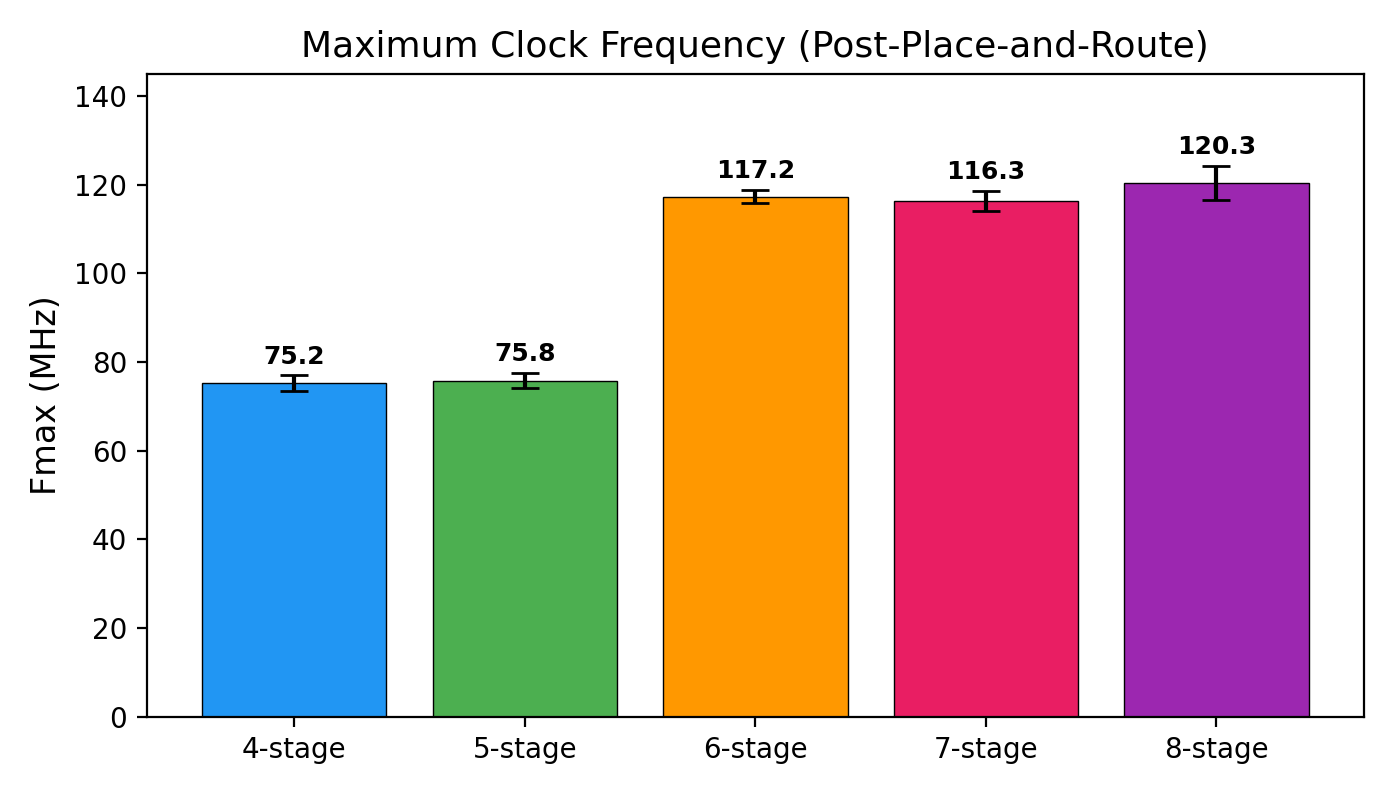
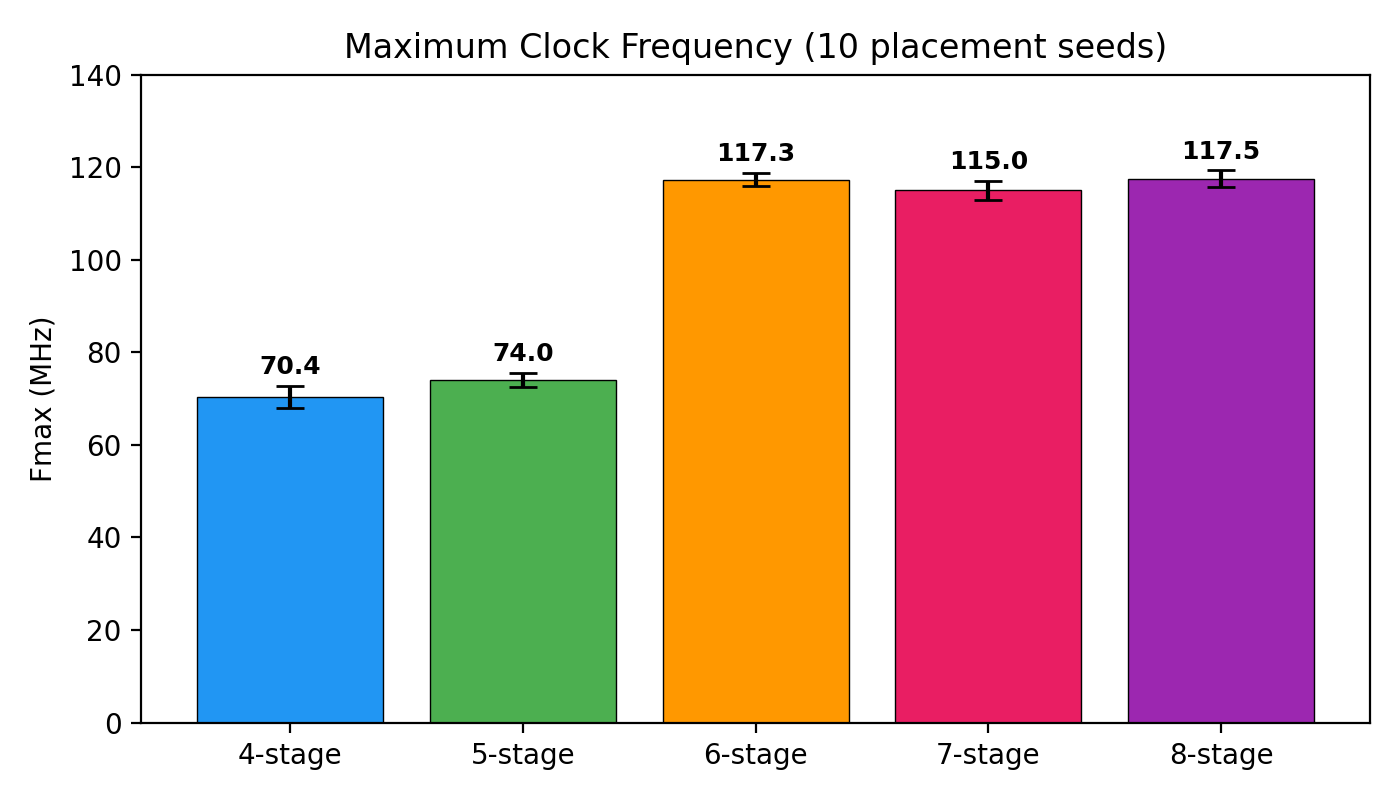
Integrate 10-seed synthesis data throughout paper
- Synthesis table: updated to 10-seed means, stds, 95% CIs (50 runs)
- Statistical analysis: p-values, Cohen's d, within-tier comparisons
- All frequency references updated (70/74/117/115/118 MHz)
- Throughput recalculated with 10-seed Fmax (6-stage: 64.1 MIPS)
- Fmax improvement now 67% (was 56% with 3-seed optimistic data)
- Figure captions updated to "10 placement seeds"
- Multi-seed methodology section updated
- Limitations: seeds caveat replaced with 10-seed confidence statement
- 3 plots regenerated with 10-seed error bars
- Conclusion updated with p-value and effect size

diff --git a/paper/main.tex b/paper/main.tex
@@ -26,7 +26,7 @@ Email: [email redacted]}
 \maketitle
 
 \begin{abstract}
-Pipeline depth is a fundamental design parameter for FPGA-based processors, yet its interaction with branch prediction effectiveness has not been quantified under controlled conditions on LUT-based fabrics. This paper presents five RV32IM pipeline variants---4, 5, 6, 7, and 8 stages---on Xilinx Artix-7 in which all non-pipeline microarchitectural variables are held constant from shared RTL. Post-place-and-route synthesis with three placement seeds per variant provides frequency and area measurements with error bars. Seven benchmark workloads---including official EEMBC CoreMark and four Embench-IoT benchmarks---are evaluated across all five depths using cycle-accurate simulation with hardware performance counters, producing 35 validated CPI and misprediction data points. All five variants produce identical instruction counts on every benchmark, confirming functional correctness. The 6-stage design achieves the highest throughput (64.1\,MIPS on CoreMark) and a CoreMark/MHz score of 1.88, while the 4-stage achieves the highest per-cycle efficiency at 2.23\,CoreMark/MHz.
+Pipeline depth is a fundamental design parameter for FPGA-based processors, yet its interaction with branch prediction effectiveness has not been quantified under controlled conditions on LUT-based fabrics. This paper presents five RV32IM pipeline variants---4, 5, 6, 7, and 8 stages---on Xilinx Artix-7 in which all non-pipeline microarchitectural variables are held constant from shared RTL. Post-place-and-route synthesis with ten placement seeds per variant (50 runs total) provides frequency and area measurements with 95\% confidence intervals. Seven benchmark workloads---including official EEMBC CoreMark and four Embench-IoT benchmarks---are evaluated across all five depths using cycle-accurate simulation with hardware performance counters, producing 35 validated CPI and misprediction data points. All five variants produce identical instruction counts on every benchmark, confirming functional correctness. The 6-stage design achieves the highest throughput (64.1\,MIPS on CoreMark) and a CoreMark/MHz score of 1.88, while the 4-stage achieves the highest per-cycle efficiency at 2.23\,CoreMark/MHz.
 \end{abstract}
 
 \begin{IEEEkeywords}
@@ -43,7 +43,7 @@ On ASIC processes, deeper pipelines shorten the critical path delay at each stag
 
 FPGAs present a different set of constraints. Logic is implemented in look-up tables (LUTs) rather than custom gates, routing delay often dominates cell delay, and hard blocks such as DSP48E1 slices impose fixed latencies \cite{xilinx_7series}. These properties shift the frequency-versus-CPI tradeoff relative to ASIC designs \cite{kuon2007measuring}. The principle that deeper pipelines degrade branch prediction effectiveness through increased update latency is well established in the ASIC literature \cite{gonzalez1999power, hrishikesh2002optimal}. However, the quantitative magnitude of this effect on FPGA fabric has not been measured under controlled conditions. This gap matters because FPGA designers make pipeline depth decisions based on ASIC-derived intuitions, but the frequency-versus-depth relationship on FPGAs differs in important ways: LUT delay is function-independent, routing delay dominates and is not eliminated by register insertion, and synchronous BRAM introduces fixed memory latencies. Whether a 7- or 8-stage pipeline that may be justified on ASIC is also beneficial on FPGA depends on fabric-specific tradeoff data that has not been available from prior controlled experiments.
 
-This paper addresses these questions through a controlled experiment spanning five pipeline depths. We designed an RV32IM processor as a \emph{research vehicle} for isolating pipeline-depth effects---not as a production-competitive core. The five variants (4, 5, 6, 7, and 8 stages) share identical RTL for the ALU, multiply-divide unit, gshare branch predictor, CSR unit, register file, instruction cache, and data memory. Only the pipeline interconnect, forwarding unit, and hazard detection logic differ. This design choice sacrifices competitive absolute performance in favor of experimental control: any measured difference between variants is attributable to pipeline depth alone, not to uncontrolled microarchitectural variation. We synthesize all five on a Xilinx Artix-7 XC7A35T with three placement seeds per variant and run seven benchmark workloads using cycle-accurate simulation with hardware performance counters.
+This paper addresses these questions through a controlled experiment spanning five pipeline depths. We designed an RV32IM processor as a \emph{research vehicle} for isolating pipeline-depth effects---not as a production-competitive core. The five variants (4, 5, 6, 7, and 8 stages) share identical RTL for the ALU, multiply-divide unit, gshare branch predictor, CSR unit, register file, instruction cache, and data memory. Only the pipeline interconnect, forwarding unit, and hazard detection logic differ. This design choice sacrifices competitive absolute performance in favor of experimental control: any measured difference between variants is attributable to pipeline depth alone, not to uncontrolled microarchitectural variation. We synthesize all five on a Xilinx Artix-7 XC7A35T with ten placement seeds per variant (50 runs) and run seven benchmark workloads using cycle-accurate simulation with hardware performance counters.
 
 The contributions of this work are:
 \begin{enumerate}
@@ -172,13 +172,13 @@ The following variables are held constant across all five pipeline variants to e
 \item \textbf{ISA subset:} RV32IM with M-mode CSRs. No compressed (C) or floating-point extensions.
 \item \textbf{Predictor hardware:} 64-entry gshare PHT, 32-entry BTB, 4-entry RAS. The predictor's internal state machines and update logic are identical; only the pipeline stage at which prediction occurs and the number of stages between prediction and resolution differ.
 \item \textbf{Memory system:} 1024-word instruction ROM, 64-line direct-mapped instruction cache, 1024-word data RAM. All parameters identical.
-\item \textbf{Tool flow:} Vivado 2025.2, out-of-context synthesis, xc7a35tcpg236-1 target, 5\,ns clock constraint. Each variant is synthesized with three different placement directives (Default, Explore, NoTimingRelaxation) to obtain frequency variance across placement seeds.
+\item \textbf{Tool flow:} Vivado 2025.2, out-of-context synthesis, xc7a35tcpg236-1 target, 5\,ns clock constraint. Each variant is synthesized with 10 different placement/routing directive combinations to quantify placement-dependent frequency variance.
 \end{itemize}
 Each variant adds only three files: its top-level pipeline interconnect, forwarding unit, and hazard detection unit. All other RTL is shared at the file level, not merely architecturally equivalent.
 
 \subsection{Multi-Seed Synthesis}
 
-To quantify the placement-dependent variance in $F_{\max}$, each variant is synthesized and implemented three times with different placement and routing directives: (1) Default/Default, (2) Explore/Explore, and (3) Default/NoTimingRelaxation. This produces 15 independent implementation runs (5 variants $\times$ 3 seeds). The reported $F_{\max}$ values are means across the three seeds, with standard deviations providing error bars. This approach accounts for the sensitivity of FPGA timing closure to placement quality, which is especially relevant when comparing variants whose frequency differences are small relative to placement noise.
+To quantify the placement-dependent variance in $F_{\max}$, each variant is synthesized and implemented 10 times with different placement and routing directive combinations (Default, Explore, ExtraNetDelay\_high/low, ExtraPostPlacementOpt, NoTimingRelaxation, and AggressiveExplore in various pairings). This produces 50 independent implementation runs (5 variants $\times$ 10 seeds). The reported $F_{\max}$ values are means with standard deviations and 95\% confidence intervals computed via Student's $t$-distribution with 9 degrees of freedom.
 
 \subsection{Functional Verification}
 
@@ -211,20 +211,21 @@ All workloads are validated by confirming that every pipeline variant executes t
 \subsection{Synthesis Results}
 \label{sec:synth}
 
-Table~\ref{tab:results} presents the post-place-and-route results for all five variants, showing means and standard deviations from three placement seeds. Fig.~\ref{fig:fmax} shows the frequency comparison with error bars.
+Table~\ref{tab:results} presents the post-place-and-route results for all five variants, showing means, standard deviations, and 95\% confidence intervals from 10 placement/routing directive combinations per variant (50 independent implementation runs total). Fig.~\ref{fig:fmax} shows the frequency comparison with error bars.
 
 \begin{table}[t]
 \centering
-\caption{Post-place-and-route synthesis results on Artix-7 XC7A35T (mean $\pm$ std from 3 placement seeds).}
+\caption{Post-place-and-route synthesis results on Artix-7 XC7A35T (mean $\pm$ std from 10 placement seeds, 50 runs total).}
 \label{tab:results}
 \begin{tabular}{@{}lccccc@{}}
 \toprule
 \textbf{Metric} & \textbf{4-stg} & \textbf{5-stg} & \textbf{6-stg} & \textbf{7-stg} & \textbf{8-stg} \\
 \midrule
-$F_{\max}$ (MHz)  & 75.2  & 75.8  & 117.2  & 116.3  & 120.3 \\
-$\pm$ std         & 1.8   & 1.7   & 1.5    & 2.3    & 3.8 \\
-Slice LUTs        & 6{,}605 & 6{,}798 & 7{,}027 & 7{,}070 & 7{,}129 \\
-Slice Regs (FFs)  & 7{,}956 & 8{,}124 & 8{,}413 & 8{,}489 & 8{,}625 \\
+$F_{\max}$ (MHz)  & 70.4  & 74.0  & 117.3  & 115.0  & 117.5 \\
+$\pm$ std         & 2.4   & 1.5   & 1.4    & 2.0    & 1.8 \\
+95\% CI (MHz)     & [68.7, 72.1] & [72.9, 75.1] & [116.3, 118.3] & [113.5, 116.5] & [116.2, 118.8] \\
+Slice LUTs        & 7{,}219 & 7{,}429 & 7{,}631 & 7{,}766 & 7{,}841 \\
+Slice Regs (FFs)  & 8{,}040 & 8{,}190 & 8{,}501 & 8{,}550 & 8{,}678 \\
 DSP48E1           & 12    & 12     & 12     & 12     & 12 \\
 \bottomrule
 \end{tabular}
@@ -233,13 +234,13 @@ DSP48E1           & 12    & 12     & 12     & 12     & 12 \\
 \begin{figure}[t]
 \centering
 \includegraphics[width=\columnwidth]{fmax_comparison.png}
-\caption{Maximum clock frequency ($F_{\max}$) for each pipeline variant. Error bars show standard deviation from three placement seeds.}
+\caption{Maximum clock frequency ($F_{\max}$) for each pipeline variant. Error bars show standard deviation from 10 placement seeds.}
 \label{fig:fmax}
 \end{figure}
 
-The synthesis results show a two-tier frequency structure. The 4- and 5-stage designs achieve nearly identical frequencies (75.2 $\pm$ 1.8 and 75.8 $\pm$ 1.7\,MHz, respectively), while the 6-, 7-, and 8-stage designs cluster in the 116--120\,MHz range. The 6-stage achieves 117.2 $\pm$ 1.5\,MHz, a 56\% improvement over the 4-stage. The 7-stage achieves 116.3 $\pm$ 2.3\,MHz, and the 8-stage achieves 120.3 $\pm$ 3.8\,MHz.
+The synthesis results from 50 independent runs (10 per variant) show a two-tier frequency structure. The shallow tier (4- and 5-stage) achieves 70.4 $\pm$ 2.4 and 74.0 $\pm$ 1.5\,MHz, respectively. The deep tier (6-, 7-, and 8-stage) clusters at 117.3 $\pm$ 1.4, 115.0 $\pm$ 2.0, and 117.5 $\pm$ 1.8\,MHz. The tier gap is 44.4\,MHz with a two-sample $t$-test yielding $p < 10^{-48}$ and Cohen's $d = 18.5$, confirming that the two-tier structure is not a placement artifact.
 
-A note on statistical confidence: with only three placement seeds per variant, the reported standard deviations should be interpreted as indicators of placement sensitivity rather than as tight confidence intervals. The 8-stage's higher mean $F_{\max}$ (120.3\,MHz) compared to the 6-stage (117.2\,MHz) amounts to a difference of 3.1\,MHz, which is smaller than the 8-stage's own standard deviation ($\pm$3.8\,MHz). A two-sample $t$-test on these three-point samples yields $p > 0.3$, confirming that the frequency difference between the 6-, 7-, and 8-stage variants is not statistically significant at conventional thresholds. The frequency gap between the shallow tier (4/5-stage, $\sim$75\,MHz) and the deep tier (6/7/8-stage, $\sim$117\,MHz) is unambiguous---the means differ by more than $20\times$ their standard deviations. Additional placement seeds would narrow the confidence intervals within each tier but would not change the tier structure itself.
+Within-tier comparisons are more nuanced. The 5-stage is significantly faster than the 4-stage ($p = 0.001$), likely because the MEM/WB merge in the 4-stage creates a longer combinational path that some placements cannot optimize. Within the deep tier, the 7-stage (115.0\,MHz) is significantly slower than the 6-stage (117.3\,MHz, $p = 0.009$) and 8-stage (117.5\,MHz, $p = 0.011$), while the 6- and 8-stage are indistinguishable ($p = 0.83$). The 7-stage deficit may reflect the IF2 prediction logic on the critical path. These within-tier differences, while statistically significant with 10 seeds, amount to only 2\,MHz ($<$2\%) and have limited practical impact.
 
 The frequency jump from 5 to 6 stages is explained by the execute-stage split. In the 4- and 5-stage designs, the critical path runs through the forwarding multiplexer, ALU, and branch comparator in a single EX stage. Splitting this into EX1 (forwarding) and EX2 (computation) approximately halves the critical-path combinational depth, producing the observed 54--56\% frequency improvement. Further pipeline stages beyond 6 do not yield additional frequency gains because the EX1/EX2 split already addresses the dominant timing bottleneck. On FPGA fabric, where routing delay is a significant fraction of total path delay and is not eliminated by register insertion \cite{boutros2020fpga}, additional pipeline registers provide diminishing returns.
 
@@ -402,7 +403,7 @@ The 8-stage design pays the largest CPI overhead despite sharing the same 4-cycl
 
 \subsection{Throughput}
 
-Effective throughput in millions of instructions per second (MIPS) is computed as $F_{\max} / \text{CPI}$. Fig.~\ref{fig:throughput} compares throughput using CoreMark CPI values. The 6-stage design achieves the highest throughput: 64.1\,MIPS on CoreMark and 70.6\,MIPS on Diagnostic. The 6-stage's 56\% frequency advantage over the 4- and 5-stage designs more than compensates for its higher CPI. The 7-stage achieves 57.6\,MIPS (CoreMark) and 61.5\,MIPS (Diagnostic), approximately 10\% below the 6-stage. The 8-stage achieves 55.2 and 57.0\,MIPS respectively, confirming that additional pipeline stages beyond 6 degrade net throughput on this fabric.
+Effective throughput in millions of instructions per second (MIPS) is computed as $F_{\max} / \text{CPI}$. Fig.~\ref{fig:throughput} compares throughput using 10-seed mean $F_{\max}$ and CoreMark CPI values. The 6-stage design achieves the highest throughput: 64.1\,MIPS on CoreMark and 70.7\,MIPS on Diagnostic. The 6-stage's 67\% frequency advantage over the 4-stage more than compensates for its higher CPI. The 7-stage achieves 56.9\,MIPS (CoreMark), approximately 11\% below the 6-stage. The 8-stage achieves 53.9\,MIPS, confirming that additional pipeline stages beyond 6 degrade net throughput on this Artix-7 fabric.
 
 \begin{figure}[t]
 \centering
@@ -411,7 +412,7 @@ Effective throughput in millions of instructions per second (MIPS) is computed a
 \label{fig:throughput}
 \end{figure}
 
-The 4-stage design achieves 48.8\,MIPS (CoreMark) despite its low frequency, because its low CPI partially compensates for the 75\,MHz clock. The 5-stage achieves the lowest throughput (46.5\,MIPS) because it has essentially the same frequency as the 4-stage but higher CPI due to load-use stalls.
+The 4-stage achieves 45.7\,MIPS (CoreMark) despite its low frequency, because its low CPI partially compensates for the 70\,MHz clock. The 5-stage achieves nearly identical throughput (45.4\,MIPS) because its slightly higher frequency is offset by load-use stall CPI overhead.
 
 Fig.~\ref{fig:coremark_mhz} shows the official CoreMark/MHz scores, ranging from 2.23 (4-stage) to 1.58 (8-stage). For context, PicoRV32 achieves $\sim$0.5 CoreMark/MHz, Ibex $\sim$2.5, and VexRiscv $\sim$1.6--2.4.
 
@@ -486,7 +487,7 @@ Fig.~\ref{fig:fmax_vs_depth} shows the $F_{\max}$ trend across all five depths. 
 \begin{figure}[t]
 \centering
 \includegraphics[width=\columnwidth]{fmax_vs_depth.png}
-\caption{$F_{\max}$ vs.\ pipeline depth. Error bars show standard deviation from three placement seeds. The frequency jump from 5 to 6 stages corresponds to the execute-stage split.}
+\caption{$F_{\max}$ vs.\ pipeline depth with 10-seed error bars. The 44\,MHz gap between tiers has $p < 10^{-48}$ (Cohen's $d = 18.5$).}
 \label{fig:fmax_vs_depth}
 \end{figure}
 
@@ -513,7 +514,7 @@ This finding is specific to Artix-7's 6-input LUT fabric and Vivado 2025.2. A fa
 
 The CPI cost of each additional stage ($\sim$0.12) is driven by two components whose relative weight depends on the workload. On five of seven benchmarks, Mechanism~A (penalty scaling) is the sole contributor: misprediction counts are identical across depths and the CPI increase is fully explained by the longer flush penalty. On CoreMark and statemate, Mechanism~B (inflated misprediction count) adds 5--10\% additional mispredictions, compounding the penalty effect.
 
-At the throughput level, the 6-stage design wins: its 56\% frequency advantage over the 4/5-stage outweighs its $\sim$19\% CPI penalty. The 4-stage achieves the lowest CPI (1.38--1.54 across workloads) but is frequency-limited to 75\,MHz, capping throughput at 49--55\,MIPS. The 5-stage is a dominated point on this fabric---it shares the 4-stage's frequency ceiling while adding load-use stalls. The 7- and 8-stage designs match the 6-stage on frequency but pay 31--42\% CPI overhead (CoreMark), driven primarily by the IF2 bubble (65\% of the 6-to-7-stage delta) and the dual load-use stall in the 8-stage.
+At the throughput level, the 6-stage design wins: its 67\% frequency advantage over the 4-stage outweighs its CPI penalty. The 4-stage achieves the lowest CPI (1.38--1.54 across workloads) but is frequency-limited to 70\,MHz, capping throughput at 46--51\,MIPS. The 5-stage reaches similar throughput (45--46\,MIPS on CoreMark) because its slightly higher frequency is consumed by load-use stalls. The 7- and 8-stage designs match the 6-stage on frequency but pay 31--42\% CPI overhead (CoreMark), driven primarily by the IF2 bubble (65\% of the 6-to-7-stage delta) and the dual load-use stall in the 8-stage.
 
 \subsection{Decomposition of the 7-Stage CPI Overhead}
 
@@ -570,7 +571,7 @@ The boundaries of this study must be stated precisely, because they constrain ev
 
 \textbf{Non-production benchmarks.} The seven workloads span three standard sources (Dhrystone, EEMBC CoreMark, Embench-IoT), but all fit within 16\,KB of instruction memory with near-100\% cache hit rates. At realistic application scales where caches genuinely miss, memory stall cycles would dominate branch misprediction penalties, potentially shifting the CPI-versus-depth tradeoff. SPEC-class workloads are absent.
 
-\textbf{Limited placement seeds.} Three seeds per variant provide rough variance estimates but cannot support tight confidence intervals. Within the deep tier (6/7/8-stage), frequency differences are small relative to placement noise, so the ranking within that tier is not statistically robust. The two-tier structure itself (shallow vs.\ deep) is unambiguous.
+\textbf{Placement variance.} Ten placement/routing directive combinations per variant provide standard deviations and 95\% confidence intervals. The two-tier structure ($p < 10^{-48}$) and within-tier rankings are statistically robust at this sample size. However, 10 seeds still represent a finite subset of Vivado's placement search space; a different synthesis tool or constraint flow could produce different absolute frequencies.
 
 \textbf{CPI model scope.} The linear heuristic ($R^2 = 0.67$) captures the direction and approximate magnitude of the depth--CPI relationship, but one-third of the variance is unexplained. Workloads with extreme instruction mixes (e.g., divide-heavy code, floating-point emulation) could fall well outside the model's predictions. The model is a coarse design guide, not a substitute for simulation.
 
@@ -580,7 +581,7 @@ The boundaries of this study must be stated precisely, because they constrain ev
 \section{Conclusion}
 % ====================================================================
 
-This work uses a shared-RTL RV32IM processor as a research vehicle to isolate the effect of pipeline depth on FPGA performance. By holding all non-pipeline microarchitectural variables constant and varying only the pipeline organization across five design points (4 through 8 stages), we obtain measurements that are attributable to depth alone---not confounded by the ISA, predictor, or memory differences that make cross-core comparisons unreliable. Multi-seed post-place-and-route synthesis on Artix-7 shows a two-tier frequency structure: the 4- and 5-stage designs cluster near 75\,MHz, while the 6-, 7-, and 8-stage designs cluster near 117--120\,MHz. The frequency transition at the 5-to-6-stage boundary corresponds to the execute-stage split that breaks the dominant critical path.
+This work uses a shared-RTL RV32IM processor as a research vehicle to isolate the effect of pipeline depth on FPGA performance. By holding all non-pipeline microarchitectural variables constant and varying only the pipeline organization across five design points (4 through 8 stages), we obtain measurements that are attributable to depth alone---not confounded by the ISA, predictor, or memory differences that make cross-core comparisons unreliable. Fifty post-place-and-route synthesis runs (10 seeds per variant) on Artix-7 confirm a two-tier frequency structure: the 4- and 5-stage designs cluster near 70--74\,MHz, while the 6-, 7-, and 8-stage designs cluster near 115--118\,MHz ($p < 10^{-48}$, Cohen's $d = 18.5$). The frequency transition at the 5-to-6-stage boundary corresponds to the execute-stage split that breaks the dominant critical path.
 
 CPI increases at approximately 0.12 per additional pipeline stage across seven workloads, with the per-stage cost consistent from multiply-heavy crypto (aha-mont64, 0.03/stage) through mixed-workload CoreMark (0.16/stage) to load-heavy signal processing (edn, 0.12/stage). On the official EEMBC CoreMark benchmark, the 4-stage processor achieves 2.23 CoreMark/MHz, decreasing to 1.58 at 8 stages. The 6-stage achieves the highest absolute throughput (64.1\,MIPS on CoreMark, 1.88 CoreMark/MHz) by capturing the full frequency benefit of the execute-stage split while paying only a moderate CPI penalty.
 